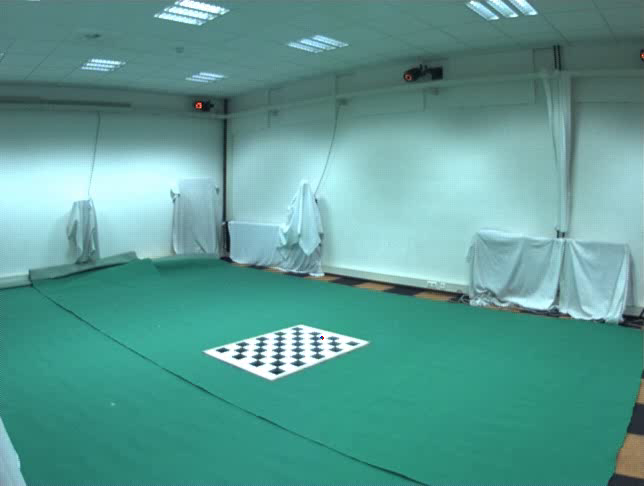
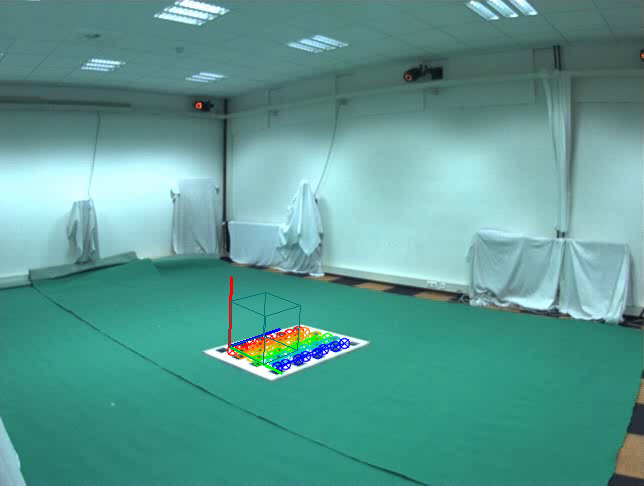
pickle rick

Changed region(s): [[0.3416, 0.5864, 0.559, 0.7716]]

diff --git a/voxel_based_3d_reconstruction/calibration.py b/voxel_based_3d_reconstruction/calibration.py
@@ -13,7 +13,7 @@ class Calibration:
         'width': 0,
         'height': 0,
         'size': 0,
-        'amount_of_frames_to_read': 25
+        'amount_of_frames_to_read': 13
     }
 
     cameras = {
@@ -116,8 +116,8 @@ class Calibration:
 
     def calculate_extrinsics(self, cam_name):
         objp = OfflinePhase.objpoints[0]
-        objp[:, 2] = objp[:, 1]
-        objp[:,1] = np.zeros(self.config['width']*self.config['height'])
+        #objp[:, 2] = objp[:, 1]
+        #objp[:,1] = np.zeros(self.config['width']*self.config['height'])
 
         r, rvec, tvec = cv.solvePnP(
             objp,

diff --git a/voxel_based_3d_reconstruction/helpers/offline_phase.py b/voxel_based_3d_reconstruction/helpers/offline_phase.py
@@ -25,7 +25,7 @@ def show_image(img, title='Current Image'):
 
 # Draw and show chessboardcorners based on found corners in image
 def draw_chessboard_corners(corners, current_image, time):
-    #cv.drawChessboardCorners(current_image, (num_cols, num_rows), corners, True)
+    cv.drawChessboardCorners(current_image, (num_cols, num_rows), corners, True)
     show_image(current_image)
     cv.waitKey(time)
 
